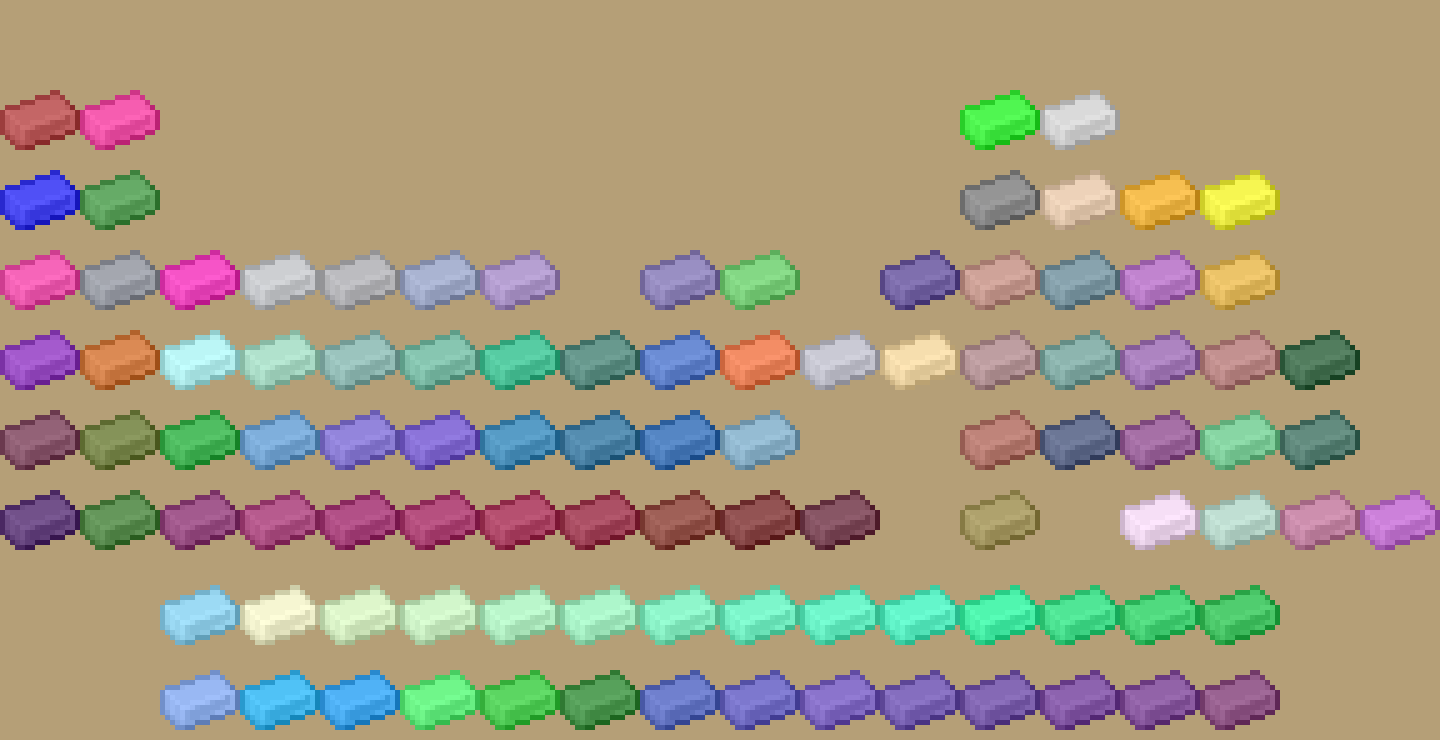
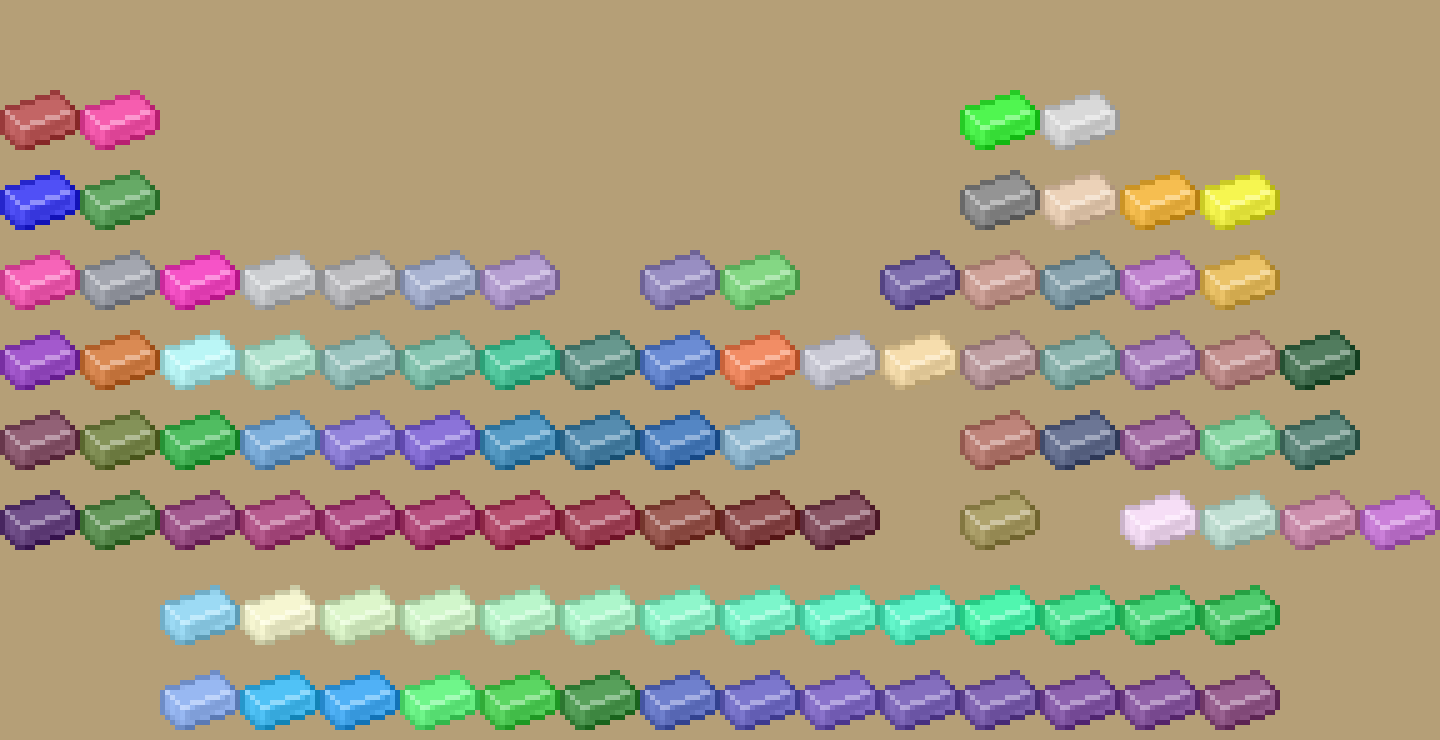
readjust ingot texture generator

diff --git a/tools/backtools/core/images.py b/tools/backtools/core/images.py
@@ -41,15 +41,15 @@ from .autofilecontainer.images import *
 ###############################################
 
 PALETTE_INGOT: tuple[tuple[int, int, int, int]] = (
-	(0, 0, 0, 0),
-	makeColorTuple("727272"),
-	makeColorTuple("3B3B3B"),
-	makeColorTuple("D1D1D1"),
-	makeColorTuple("B0B0B0"),
-	makeColorTuple("9C9C9C"),
-	makeColorTuple("E6E6E6"),
-	makeColorTuple("FAFAFA"),
-	makeColorTuple("FFFFFF")
+	(0, 0, 0, 0), # Transparent
+	makeColorTuple("6A"*3), # Border Top
+	makeColorTuple("33"*3), # Border Bottom
+	makeColorTuple("CF"*3),
+	makeColorTuple("AE"*3),
+	makeColorTuple("9A"*3),
+	makeColorTuple("E4"*3),
+	makeColorTuple("FA"*3), # Edges
+	makeColorTuple("FF"*3), # Corner
 )
 
 INGOT: tuple[tuple[int]] = (
@@ -88,4 +88,4 @@ class IngotTextureImage(ItemTextureImage):
 		for y, line in enumerate(INGOT):
 			for x, index in enumerate(line):
 				if index == 0: continue
-				self.image.putpixel((x, y), colorEditionIngot(self.color, index))
+				self.image.putpixel((x, y), colorEditionIngot(self.color, index)) if index not in (7, 8) else self.image.putpixel((x, y), colorEditionIngot(colorEditionIngot(self.color, index), index))
